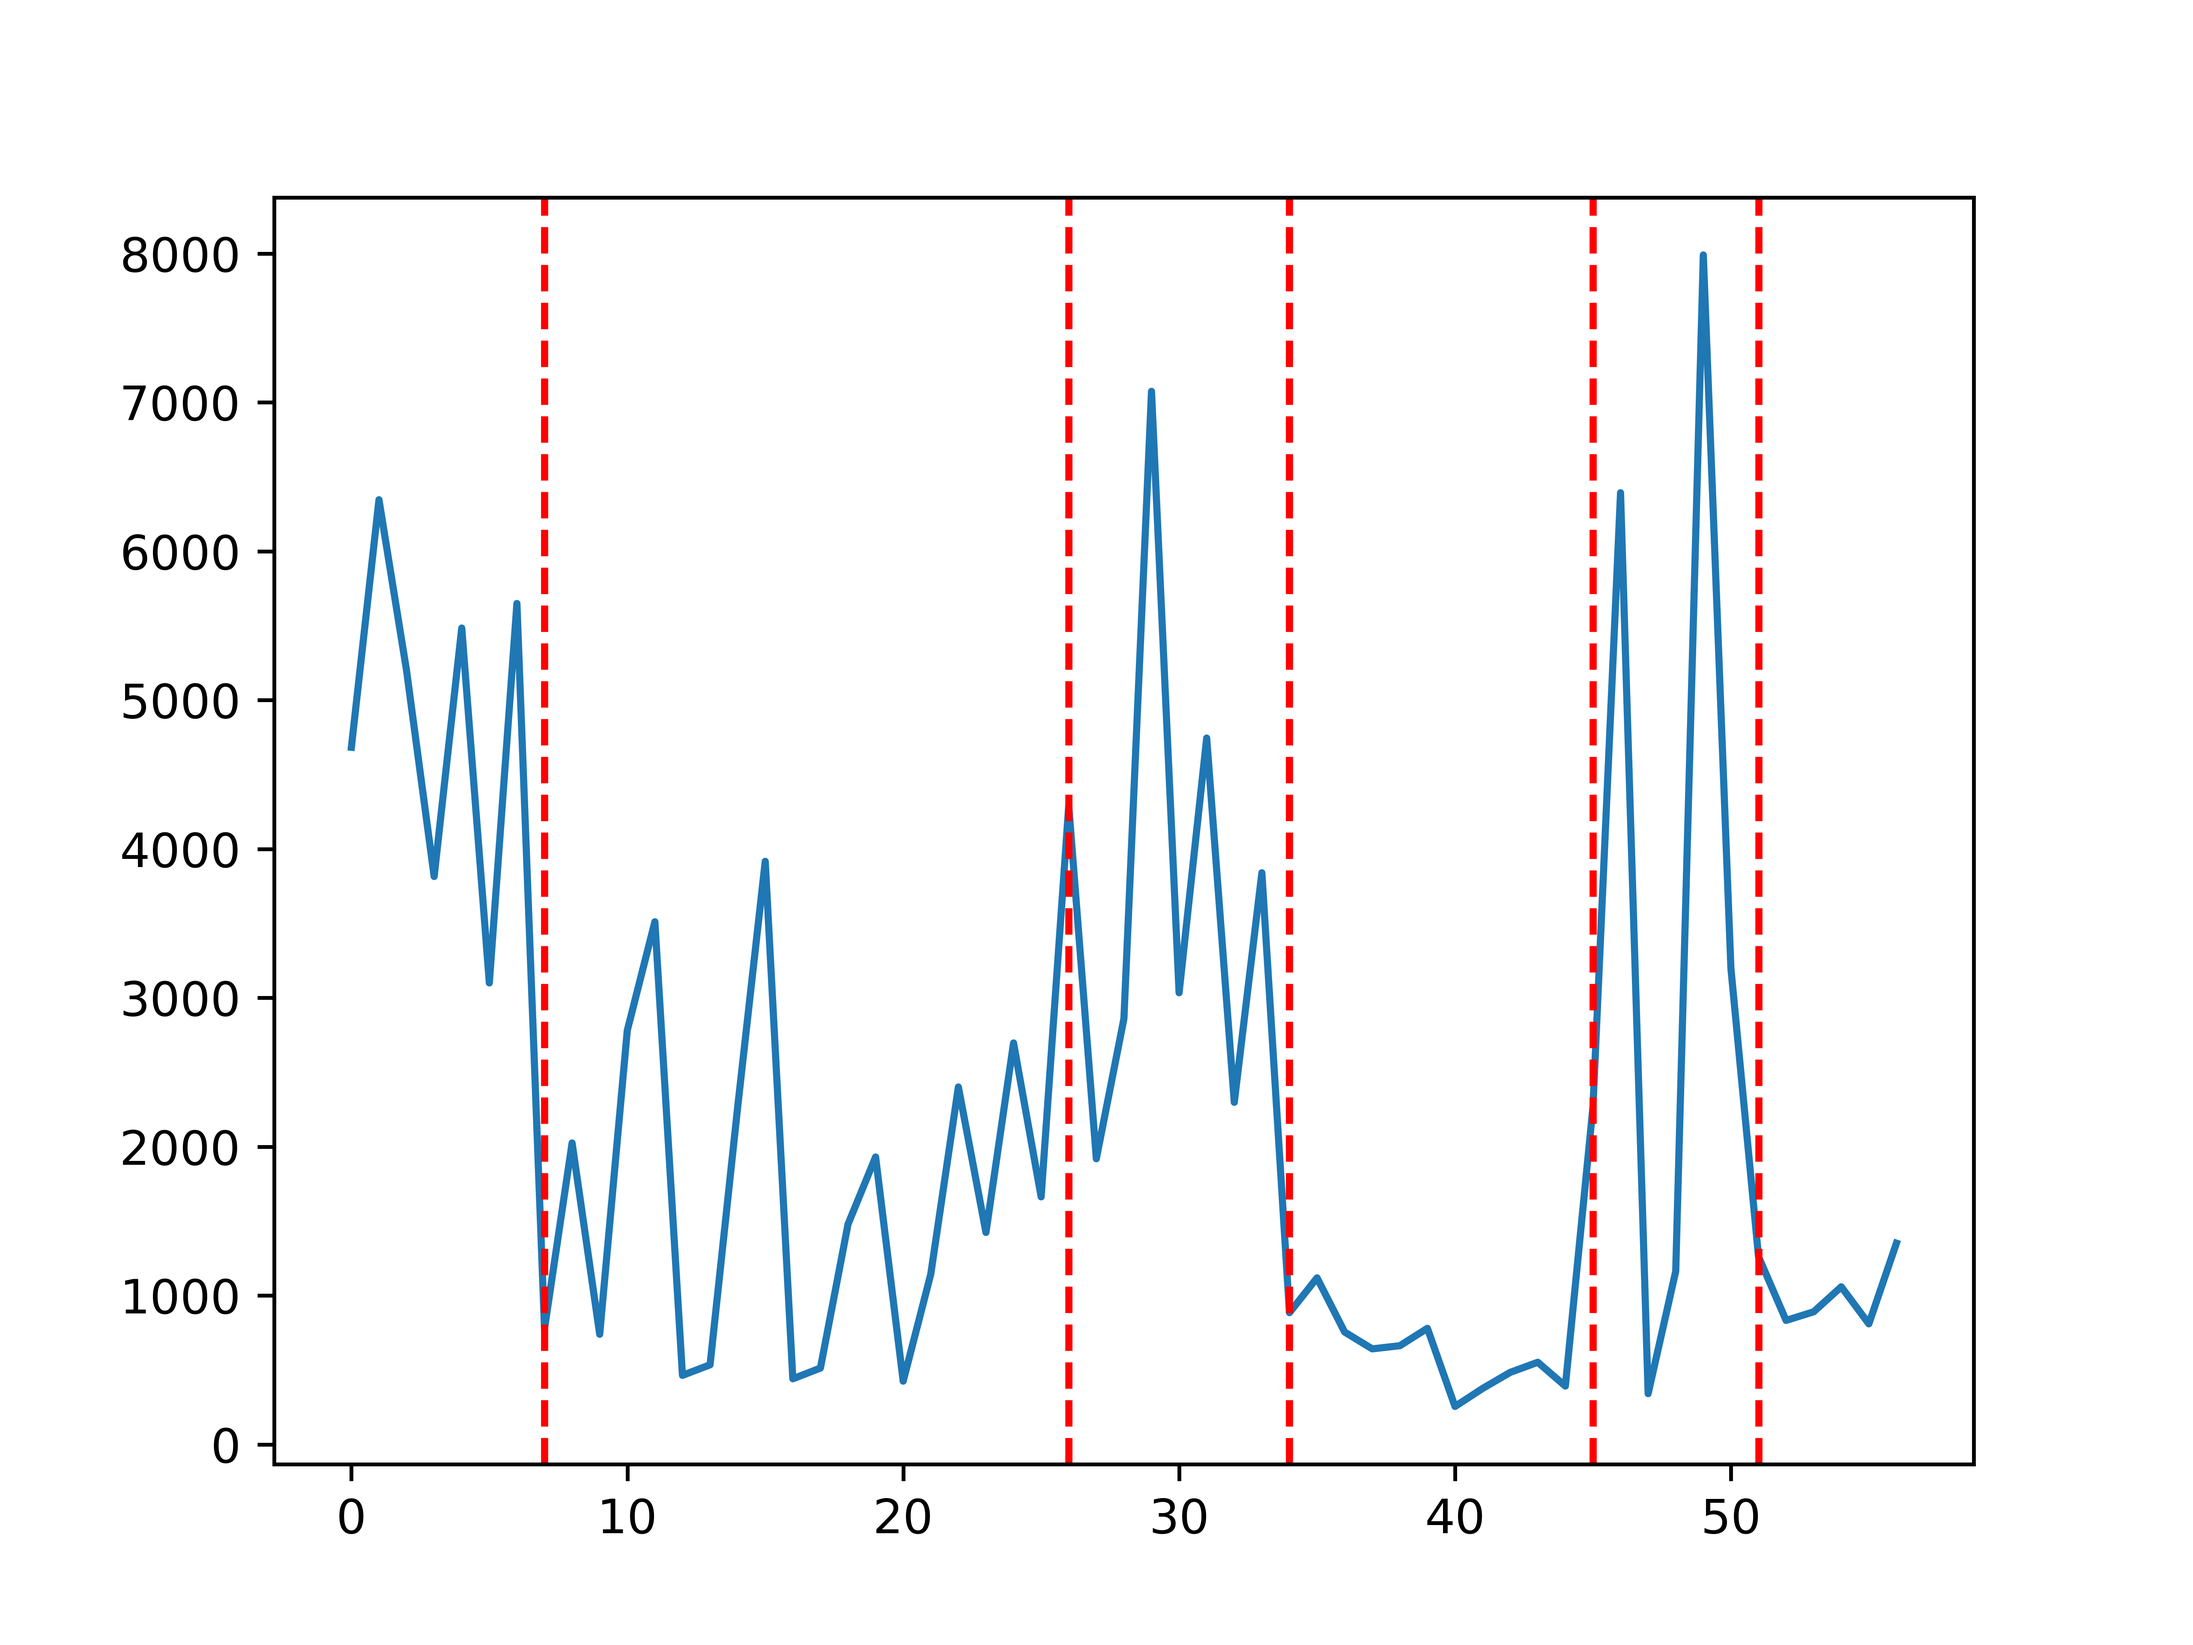
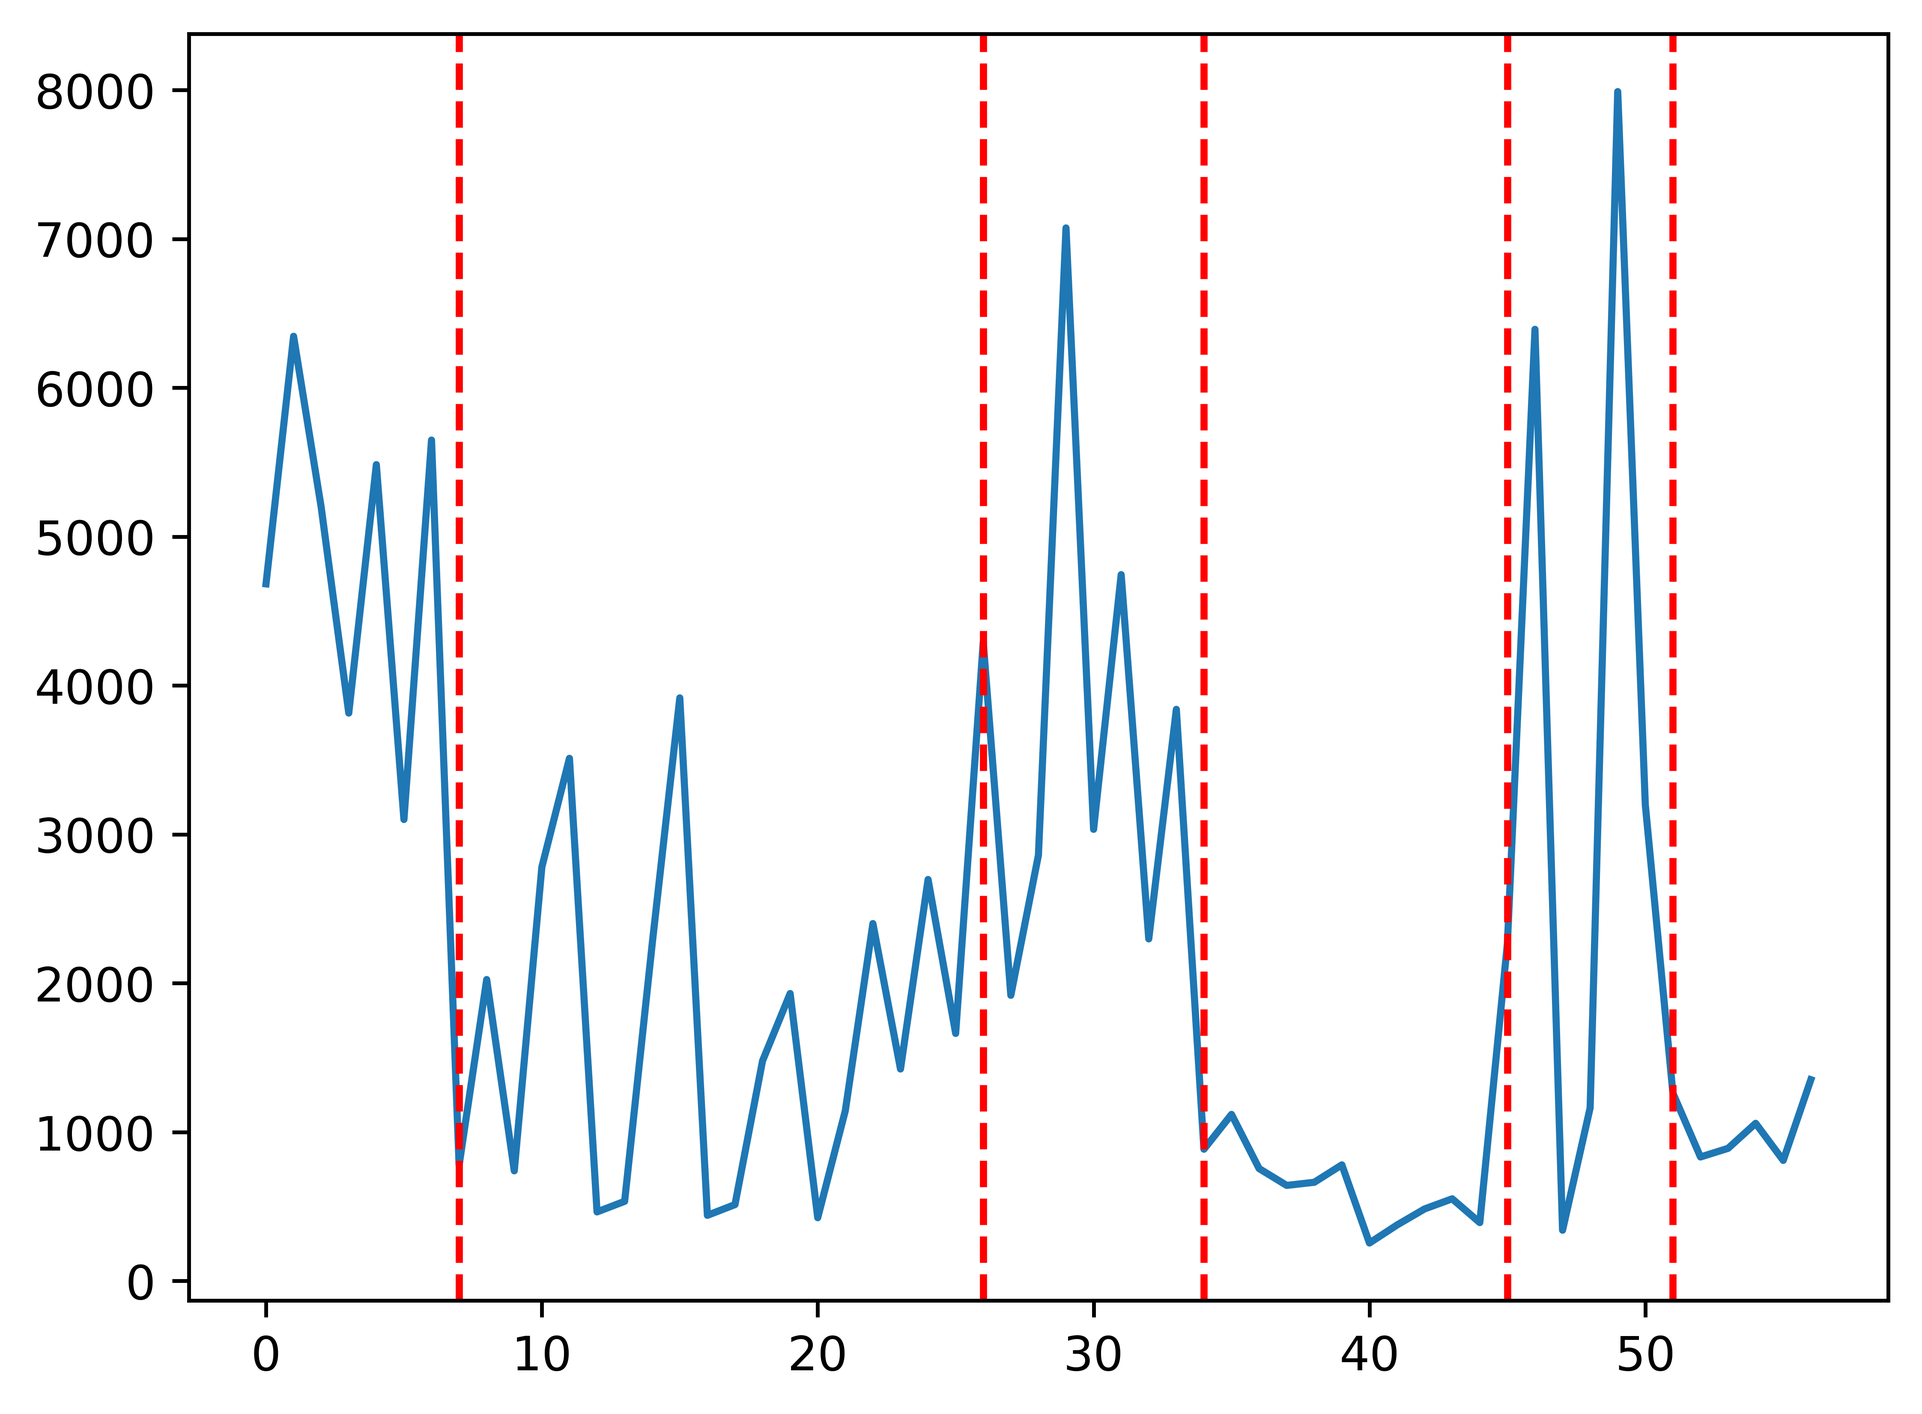
add: plot for checking

diff --git a/insight_analysis/distribution_tools/outstanding_2_check.py b/insight_analysis/distribution_tools/outstanding_2_check.py
@@ -47,6 +47,10 @@ def outstanding_2_significance(data: Series) -> float:
     # print("p_value: ", p_value)
 
     # oustanding_2_plot(Y, a=model.coef_[0], b = -0.7)
+    # R_MAX = ( Y[0] - Y_pred[0] ) 
+    # R_MIN = ( Y[1] - Y_pred[1] ) 
+    # print("R_MAX: ", R_MAX, "R_MIN: ", R_MIN)
+    # outstanding_2_Gaussian_plot(mu, sigma, (Y[0]-Y_pred[0]), (Y[1]-Y_pred[1]), R)
 
     return p_value
 
@@ -69,6 +73,68 @@ def outstanding_2_check(data: Series, threshold:float=0.3) -> bool:
         return True
     else:
         return False
+
+def outstanding_2_Gaussian_plot(mu, sigma, r1, r2, R) -> None:
+    import matplotlib.pyplot as plt
+    import numpy as np
+
+    # 生成一系列的x值
+    x = np.linspace(mu-3*sigma, mu+3*sigma, 1000)
+
+    # 计算对应的高斯函数值
+    y = (1/(sigma*np.sqrt(2*np.pi))) * np.exp(-((x-mu)**2)/(2*sigma**2))
+
+        # 选择一个特定的x值
+    x_points = [r1, r2]  # 例如，我们选择x = 1.5
+
+    plt.plot(x, y)
+    plt.title('Gaussian Function')
+    plt.xlabel('x')
+    plt.ylabel('f(x)')
+    plt.grid(True, which='both', linestyle='--', linewidth=0.5)
+
+    # y_point = (1/(sigma*np.sqrt(2*np.pi))) * np.exp(-((x_points[0]-mu)**2)/(2*sigma**2))
+    # plt.plot(x_points[0], y_point, 'ro', )  # 'ro'表示红色圆点
+    # plt.annotate('$r1 = {:.2f}$'.format(x_points[0]),
+    #             (x_points[0], y_point),  # 标签的位置
+    #             textcoords="offset points",  # 相对位置
+    #             xytext=(0,10),  # 文本标签的偏移量
+    #             ha='center')  # 水平居中对齐
+    # y_point = (1/(sigma*np.sqrt(2*np.pi))) * np.exp(-((x_points[1]-mu)**2)/(2*sigma**2))
+    # plt.plot(x_points[1], y_point, 'ro', )  # 'ro'表示红色圆点
+    # plt.annotate('$r2 = {:.2f}$'.format(x_points[1]),
+    #             (x_points[1], y_point),  # 标签的位置
+    #             textcoords="offset points",  # 相对位置
+    #             xytext=(0,10),  # 文本标签的偏移量
+    #             ha='center')  # 水平居中对齐
+
+    y_point = (1/(sigma*np.sqrt(2*np.pi))) * np.exp(-((R-mu)**2)/(2*sigma**2))
+    plt.plot(R, y_point, 'ro', )  # 'ro'表示红色圆点
+    plt.annotate('$r1 = {:.2f}$'.format(R),
+                (R, y_point),  # 标签的位置
+                textcoords="offset points",  # 相对位置
+                xytext=(0,10),  # 文本标签的偏移量
+                ha='center')  # 水平居中对齐
+    # 绘制高斯函数图像
+
+    # plt.axhline(0, color='black',linewidth=0.5)
+    # plt.axvline(0, color='black',linewidth=0.5)
+    x_point = R
+    x_values = x
+    y_values = y
+    y_values_after = np.where(x_values > x_point, y_values, np.zeros_like(x_values))
+    y_values_zero = np.zeros_like(x_values)
+
+    # 使用fill_between函数填充阴影
+    plt.fill_between(x_values, y_values_zero, y_values_after, where=(x_values > x_point), color='red', alpha=0.7, label='p_value < 0.1')
+    plt.ylim(ymin=0)
+
+    # 添加图例
+    plt.legend()
+
+    plt.axvline(x=mu, color='r', linestyle='--')
+    plt.show()
+    plt.savefig("outstanding_2_Gaussian_plot.png",    dpi=800,    bbox_inches='tight')
 
 def oustanding_2_plot(values: list, a: float, b: float) -> None:
     import matplotlib.pyplot as plt

diff --git a/insight_analysis/single_shape.py b/insight_analysis/single_shape.py
@@ -57,7 +57,7 @@ def change_point_detection_rbf(data: DataFrame, method: str = 'rbf', jump: int =
     plt.plot(values)
     for bkp in result:
         plt.axvline(x=bkp, color='r', linestyle='--')
-    plt.savefig('change_point_detection_model_rbf_1.png', dpi=800)
+    plt.savefig('change_point_detection_model_rbf_1.png', dpi=800, bbox_inches='tight')
     plt.show()
 
 def change_point_detection_test(data: DataFrame, detection_window_length: int = 3, threshold: float = 0.05) -> List:

diff --git a/Readme.md b/Readme.md
@@ -6,7 +6,7 @@
 ### 1.3 Outstanding_2 Detection
 **Outstanding_2 Data**
 ![Outstanding_2 Detection](./outstanding_2_plot.png)
-
+![Outstanding_2 Gaussian](./outstanding_2_Gaussian_plot.png)
 
 **Not Outstanding_2 Data**
 ![Not Outstanding_2 Detection](./not_outstanding_2_plot.png)
